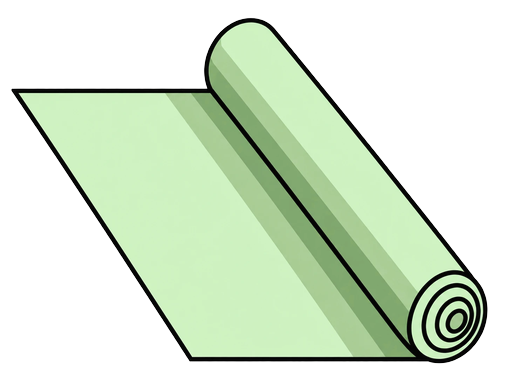
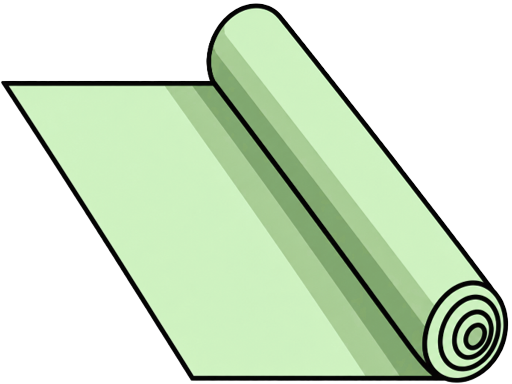
塩ビシートの絵を差し替え
Claude-Session: https://claude.ai/code/session_01PgXzQNeJmnijS3Si1WGKy4

Changed region(s): [[0.0, 0.0, 1.0, 1.0], [0.5, 0.5625, 0.5312, 0.5938]]

diff --git a/index.html b/index.html
@@ -395,7 +395,7 @@ nav, nav#nav{overflow:visible; padding-top:2px;}
 
 <!-- 版の表示：スマホに届いている中身がどれかを、お互いに確認するための小さな印。
      不要になったらこの1行と #nnver の指定を消してください。 -->
-<div id="nnver">v2026-09-30 h</div>
+<div id="nnver">v2026-09-30 i</div>
 <script>
 /* ============ 実機の計測結果を表示（原因調査用・2026-07-28） ============
    数字の意味（単位はミリ秒）
@@ -746,7 +746,7 @@ nav, nav#nav{justify-content:center !important; padding-left:6px !important; pad
    古いものが出続けることがある。そこで ver.txt（数バイト）だけを
    毎回見に行き、公開版と違っていたら保存分を捨てて1回だけ読み直す。
    ★公開のたびに ver.txt と、下の NN_VER を同じ文字に更新すること。 */
-const NN_VER='2026-09-30h';
+const NN_VER='2026-09-30i';
 /* ============ 表示にかかった時間の記録（原因調査用・2026-07-28） ============
    スマホの実機でどこに時間がかかっているかを数字で出す。
    ・net  ＝ページを要求してから最初の返事が来るまで（通信の待ち）
@@ -1963,7 +1963,7 @@ html:not([data-nnphone="1"]) nav#nav .ni.hasimg.on:hover{transform:scale(1.10) !
 <script src="./kou_hq.js?v=2026-09-26q"></script>
 <script src="./nn_select.js?v=2026-09-25n"></script>
 <script src="./nn_scrolllock.js?v=2026-09-25c"></script>
-<script src="./nn_matill.js?v=2026-09-30g"></script>
+<script src="./nn_matill.js?v=2026-09-30i"></script>
 <script src="./nn_master.js?v=2026-09-29i"></script>
 <script src="./nn_photos.js?v=2026-09-29h"></script>
 <script src="./nn_seikyu.js?v=2026-09-29g"></script>

diff --git a/kirokucho_demo.html b/kirokucho_demo.html
@@ -4842,7 +4842,7 @@ nav, nav#nav{justify-content:center !important; padding-left:6px !important; pad
    古いものが出続けることがある。そこで ver.txt（数バイト）だけを
    毎回見に行き、公開版と違っていたら保存分を捨てて1回だけ読み直す。
    ★公開のたびに ver.txt と、下の NN_VER を同じ文字に更新すること。 */
-const NN_VER='2026-09-30h';
+const NN_VER='2026-09-30i';
 /* ============ 表示にかかった時間の記録（原因調査用・2026-07-28） ============
    スマホの実機でどこに時間がかかっているかを数字で出す。
    ・net  ＝ページを要求してから最初の返事が来るまで（通信の待ち）
@@ -9633,7 +9633,7 @@ html body #dashboard .dash-settings-btn{display:inline-flex;align-items:center;g
 <script src="./kou_hq.js?v=2026-09-26q"></script>
 <script src="./nn_select.js?v=2026-09-25n"></script>
 <script src="./nn_scrolllock.js?v=2026-09-25c"></script>
-<script src="./nn_matill.js?v=2026-09-30g"></script>
+<script src="./nn_matill.js?v=2026-09-30i"></script>
 <script src="./nn_master.js?v=2026-09-29i"></script>
 <!-- ★2026-09-25a スマホ：新規物件登録を見直し（本人の指摘4点）
      ①日付欄（着工日など）が隣の列へはみ出して重なる → iPhoneの日付欄は固有の幅を持つので、見た目の既定をやめて幅100%に

diff --git a/zairyo_toroku.html b/zairyo_toroku.html
@@ -503,7 +503,7 @@ nav::-webkit-scrollbar{display:none;}
 }
 </style>
 <link rel="prefetch" href="./index.html"><link rel="prefetch" href="./kirokucho_demo.html"><link rel="prefetch" href="./genba_map_v36.html"><link rel="prefetch" href="./hacchu.html"><link rel="prefetch" href="./camera.html"><link rel="prefetch" href="./kokkosho.html">
-<script src="./nn_matill.js?v=2026-09-30g"></script>   <!-- ★§551 一覧の最初の描画より先に読む（あとだと一覧に絵が出ない） -->
+<script src="./nn_matill.js?v=2026-09-30i"></script>   <!-- ★§551 一覧の最初の描画より先に読む（あとだと一覧に絵が出ない） -->
 </head>
 <body>
 
@@ -1585,7 +1585,7 @@ nav, nav#nav{justify-content:center !important; padding-left:6px !important; pad
    古いものが出続けることがある。そこで ver.txt（数バイト）だけを
    毎回見に行き、公開版と違っていたら保存分を捨てて1回だけ読み直す。
    ★公開のたびに ver.txt と、下の NN_VER を同じ文字に更新すること。 */
-const NN_VER='2026-09-30h';
+const NN_VER='2026-09-30i';
 /* ============ 表示にかかった時間の記録（原因調査用・2026-07-28） ============
    スマホの実機でどこに時間がかかっているかを数字で出す。
    ・net  ＝ページを要求してから最初の返事が来るまで（通信の待ち）

diff --git a/camera.html b/camera.html
@@ -1271,7 +1271,7 @@ nav, nav#nav{justify-content:center !important; padding-left:6px !important; pad
    古いものが出続けることがある。そこで ver.txt（数バイト）だけを
    毎回見に行き、公開版と違っていたら保存分を捨てて1回だけ読み直す。
    ★公開のたびに ver.txt と、下の NN_VER を同じ文字に更新すること。 */
-const NN_VER='2026-09-30h';
+const NN_VER='2026-09-30i';
 /* ============ 表示にかかった時間の記録（原因調査用・2026-07-28） ============
    スマホの実機でどこに時間がかかっているかを数字で出す。
    ・net  ＝ページを要求してから最初の返事が来るまで（通信の待ち）

diff --git a/genba_map_v36.html b/genba_map_v36.html
@@ -5019,7 +5019,7 @@ nav, nav#nav{justify-content:center !important; padding-left:6px !important; pad
    古いものが出続けることがある。そこで ver.txt（数バイト）だけを
    毎回見に行き、公開版と違っていたら保存分を捨てて1回だけ読み直す。
    ★公開のたびに ver.txt と、下の NN_VER を同じ文字に更新すること。 */
-const NN_VER='2026-09-30h';
+const NN_VER='2026-09-30i';
 /* ============ 表示にかかった時間の記録（原因調査用・2026-07-28） ============
    スマホの実機でどこに時間がかかっているかを数字で出す。
    ・net  ＝ページを要求してから最初の返事が来るまで（通信の待ち）

diff --git a/hacchu.html b/hacchu.html
@@ -1103,7 +1103,7 @@ nav, nav#nav{justify-content:center !important; padding-left:6px !important; pad
    古いものが出続けることがある。そこで ver.txt（数バイト）だけを
    毎回見に行き、公開版と違っていたら保存分を捨てて1回だけ読み直す。
    ★公開のたびに ver.txt と、下の NN_VER を同じ文字に更新すること。 */
-const NN_VER='2026-09-30h';
+const NN_VER='2026-09-30i';
 /* ============ 表示にかかった時間の記録（原因調査用・2026-07-28） ============
    スマホの実機でどこに時間がかかっているかを数字で出す。
    ・net  ＝ページを要求してから最初の返事が来るまで（通信の待ち）

diff --git a/kokkosho.html b/kokkosho.html
@@ -2448,7 +2448,7 @@ nav, nav#nav{justify-content:center !important; padding-left:6px !important; pad
    古いものが出続けることがある。そこで ver.txt（数バイト）だけを
    毎回見に行き、公開版と違っていたら保存分を捨てて1回だけ読み直す。
    ★公開のたびに ver.txt と、下の NN_VER を同じ文字に更新すること。 */
-const NN_VER='2026-09-30h';
+const NN_VER='2026-09-30i';
 /* ============ 表示にかかった時間の記録（原因調査用・2026-07-28） ============
    スマホの実機でどこに時間がかかっているかを数字で出す。
    ・net  ＝ページを要求してから最初の返事が来るまで（通信の待ち）

diff --git a/library.html b/library.html
@@ -1170,7 +1170,7 @@ nav, nav#nav{justify-content:center !important; padding-left:6px !important; pad
    古いものが出続けることがある。そこで ver.txt（数バイト）だけを
    毎回見に行き、公開版と違っていたら保存分を捨てて1回だけ読み直す。
    ★公開のたびに ver.txt と、下の NN_VER を同じ文字に更新すること。 */
-const NN_VER='2026-09-30h';
+const NN_VER='2026-09-30i';
 /* ============ 表示にかかった時間の記録（原因調査用・2026-07-28） ============
    スマホの実機でどこに時間がかかっているかを数字で出す。
    ・net  ＝ページを要求してから最初の返事が来るまで（通信の待ち）

diff --git a/shiyo_toroku.html b/shiyo_toroku.html
@@ -1665,7 +1665,7 @@ nav, nav#nav{justify-content:center !important; padding-left:6px !important; pad
    古いものが出続けることがある。そこで ver.txt（数バイト）だけを
    毎回見に行き、公開版と違っていたら保存分を捨てて1回だけ読み直す。
    ★公開のたびに ver.txt と、下の NN_VER を同じ文字に更新すること。 */
-const NN_VER='2026-09-30h';
+const NN_VER='2026-09-30i';
 /* ============ 表示にかかった時間の記録（原因調査用・2026-07-28） ============
    スマホの実機でどこに時間がかかっているかを数字で出す。
    ・net  ＝ページを要求してから最初の返事が来るまで（通信の待ち）

diff --git a/yougo.html b/yougo.html
@@ -1406,7 +1406,7 @@ nav, nav#nav{justify-content:center !important; padding-left:6px !important; pad
    古いものが出続けることがある。そこで ver.txt（数バイト）だけを
    毎回見に行き、公開版と違っていたら保存分を捨てて1回だけ読み直す。
    ★公開のたびに ver.txt と、下の NN_VER を同じ文字に更新すること。 */
-const NN_VER='2026-09-30h';
+const NN_VER='2026-09-30i';
 /* ============ 表示にかかった時間の記録（原因調査用・2026-07-28） ============
    スマホの実機でどこに時間がかかっているかを数字で出す。
    ・net  ＝ページを要求してから最初の返事が来るまで（通信の待ち）

diff --git a/zumen_sekisan.html b/zumen_sekisan.html
@@ -6293,7 +6293,7 @@ nav, nav#nav{justify-content:center !important; padding-left:6px !important; pad
    古いものが出続けることがある。そこで ver.txt（数バイト）だけを
    毎回見に行き、公開版と違っていたら保存分を捨てて1回だけ読み直す。
    ★公開のたびに ver.txt と、下の NN_VER を同じ文字に更新すること。 */
-const NN_VER='2026-09-30h';
+const NN_VER='2026-09-30i';
 /* ============ 表示にかかった時間の記録（原因調査用・2026-07-28） ============
    スマホの実機でどこに時間がかかっているかを数字で出す。
    ・net  ＝ページを要求してから最初の返事が来るまで（通信の待ち）

diff --git a/nn_matill.js b/nn_matill.js
@@ -10,7 +10,7 @@
    ============================================================ */
 (function(){ 'use strict';
 if(window.nnMatIll) return;
-var ILL_VER='2026-09-30g';   /* ★絵を同じ名前で差し替えたら上げる（上げないと古い絵が出続ける） */
+var ILL_VER='2026-09-30i';   /* ★絵を同じ名前で差し替えたら上げる（上げないと古い絵が出続ける） */
 var KUBUN=[
  ['asphalt_compound','アスファルトコンパウンド','#6b4a2a'],
  ['primer','プライマー','#8a5a12'],
